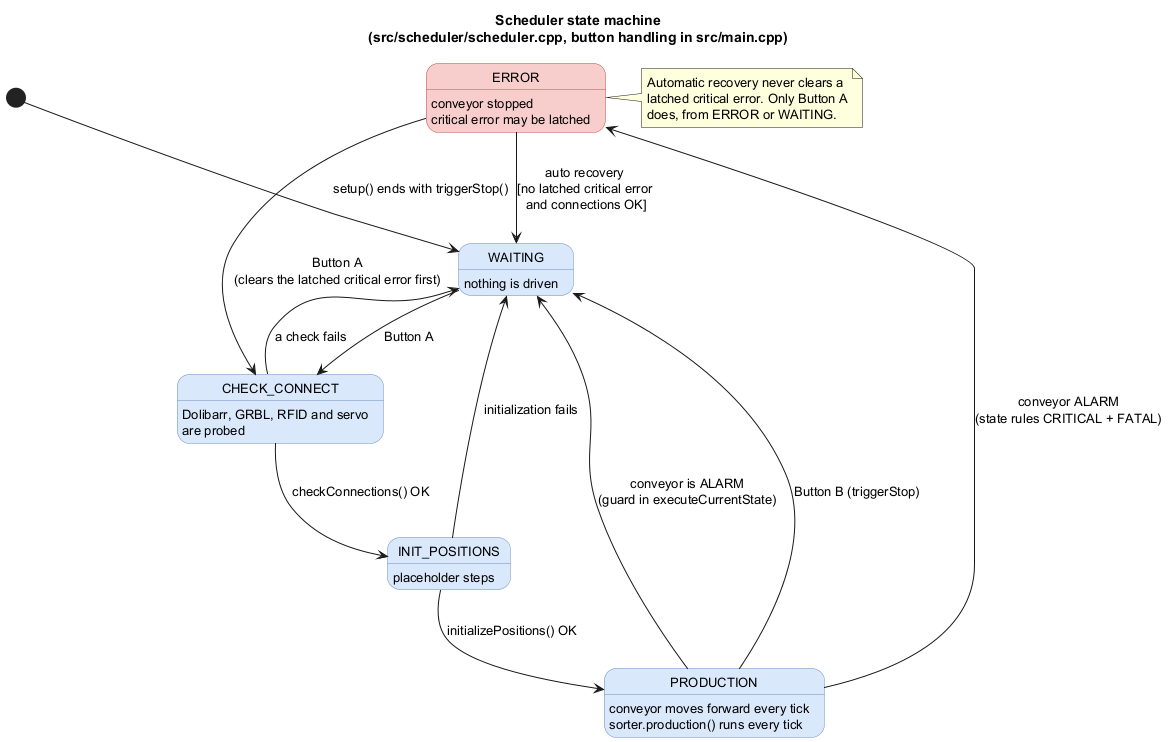
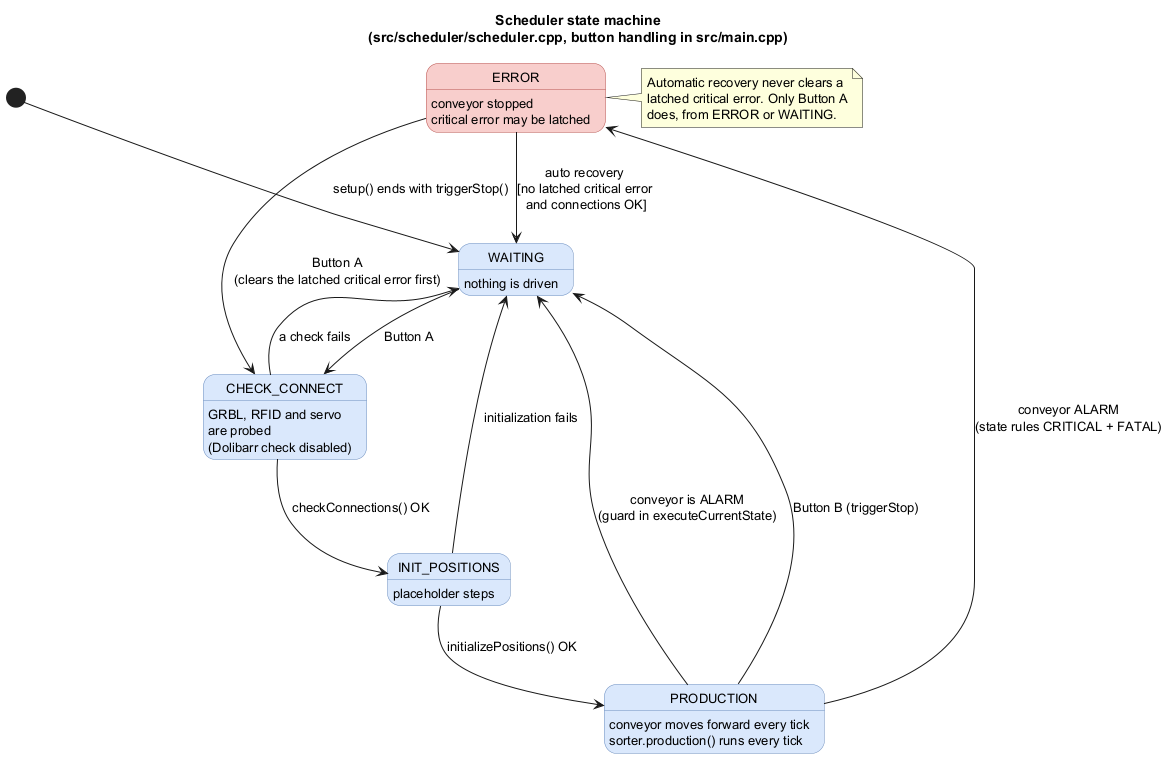
docs: correct the claim that Start checks Dolibarr
checkConnections() has the Dolibarr check commented out, so Start only checks
the GRBL motor, the RFID reader and the servo board. README, the scheduler
diagram, the state document and the acceptance steps now say so.

diff --git a/README.md b/README.md
@@ -15,7 +15,7 @@ Developed as part of the Epitech MSc Pro IoT project (T-IOT-911).
 - **Hardware-driven state**: the conveyor state is read from the GRBL module on every cycle. The software never assumes that a command worked.
 - **Error management**: errors are classified (`INFO`, `WARNING`, `CRITICAL`, `FATAL`). A critical error stops the system and stays latched until the operator presses Start (see [Usage](#usage)).
 - **Silent module watchdog**: if the GRBL module gives no status for 10 consecutive reads (1 s), the conveyor is treated as in alarm and a critical error is raised.
-- **Connection checks**: the Dolibarr API, the GRBL motor, the RFID reader and the servo board are probed before production starts.
+- **Connection checks**: the GRBL motor, the RFID reader and the servo board are probed before production starts. The Dolibarr check is implemented but disabled in the start sequence (see `docs/OVERVIEW.md`).
 - **Sorting flow**: RFID read → Dolibarr product lookup → stock movement → servo moved to the matching bin. Parcels that cannot be routed go to the error bin.
 - **Timeouts**: HTTP requests to Dolibarr give up after 5 seconds, so a silent server cannot freeze the controls.
 - **Host unit tests**: the firmware logic runs on a PC with googletest and gMock, without an ESP32.
@@ -202,7 +202,7 @@ The firmware job needs these repository secrets: `DOLIBARR_URL`, `DOLIBARR_API_K
 └── lib/GoPlus2/            Vendored GoPlus2 servo driver (third-party, not in the PlatformIO registry)
 ```
 
-Further documentation is in `docs/`: system usage (`SYSTEM_USAGE.md`), build and test
+Further documentation is in `docs/`: a system overview (`OVERVIEW.md`), UML diagrams (`uml/`), system usage (`SYSTEM_USAGE.md`), build and test
 details (`CMAKE_BUILD_TESTS.md`), the state flow (`state_management_error.md`) and the
 test protocol (`TEST_PROTOCOL.md`). `TEST_PROTOCOL.md` is a manual protocol from the school
 project; its Python file layout is historical.

diff --git a/docs/TEST_PROTOCOL.md b/docs/TEST_PROTOCOL.md
@@ -67,7 +67,7 @@ Prerequisites: the `.env` file is filled in, the firmware is flashed, the GRBL m
 | # | Step | Expected result | Result |
 |---|------|-----------------|:------:|
 | H1 | Power on | Serial log shows `WiFi OK` and `Dolibarr OK`; screen shows `WAITING` | |
-| H2 | Power on with Dolibarr stopped | `Dolibarr FAIL` is logged; the board still runs, and Start fails the check and stays in `WAITING` | |
+| H2 | Power on with Dolibarr stopped | `Dolibarr FAIL` is logged; the board still runs, and Start is **not** blocked by Dolibarr (the check is disabled), so a lookup failure shows up on the first card read instead | |
 | H3 | Press **A** | `CHECK_CONNECT` then `INIT_POSITIONS` then `PRODUCTION`; the conveyor moves forward | |
 | H4 | Present a known card | Log shows the UID and the warehouse ID, no `[ERR]` line, and the servo moves to the bin for that warehouse | |
 | H5 | Verify the stock movement in Dolibarr | A movement exists for the product, warehouse and quantity 1 | |

diff --git a/docs/state_management_error.md b/docs/state_management_error.md
@@ -98,7 +98,7 @@ rule, so it does not show this. See the open point in section 8.
 ## 6. Scheduler and recovery
 
 - `WAITING`: nothing is driven. **A** starts `CHECK_CONNECT`.
-- `CHECK_CONNECT`: checks Dolibarr, the GRBL module, the RFID reader and the servo board. On
+- `CHECK_CONNECT`: checks the GRBL module, the RFID reader and the servo board (the Dolibarr check is disabled). On
   success it goes to `INIT_POSITIONS`; on failure, back to `WAITING`.
 - `INIT_POSITIONS`: placeholder steps; success moves to `PRODUCTION`.
 - `PRODUCTION`: the conveyor runs and the sorter handles each card. An alarm stops it (section 5).
